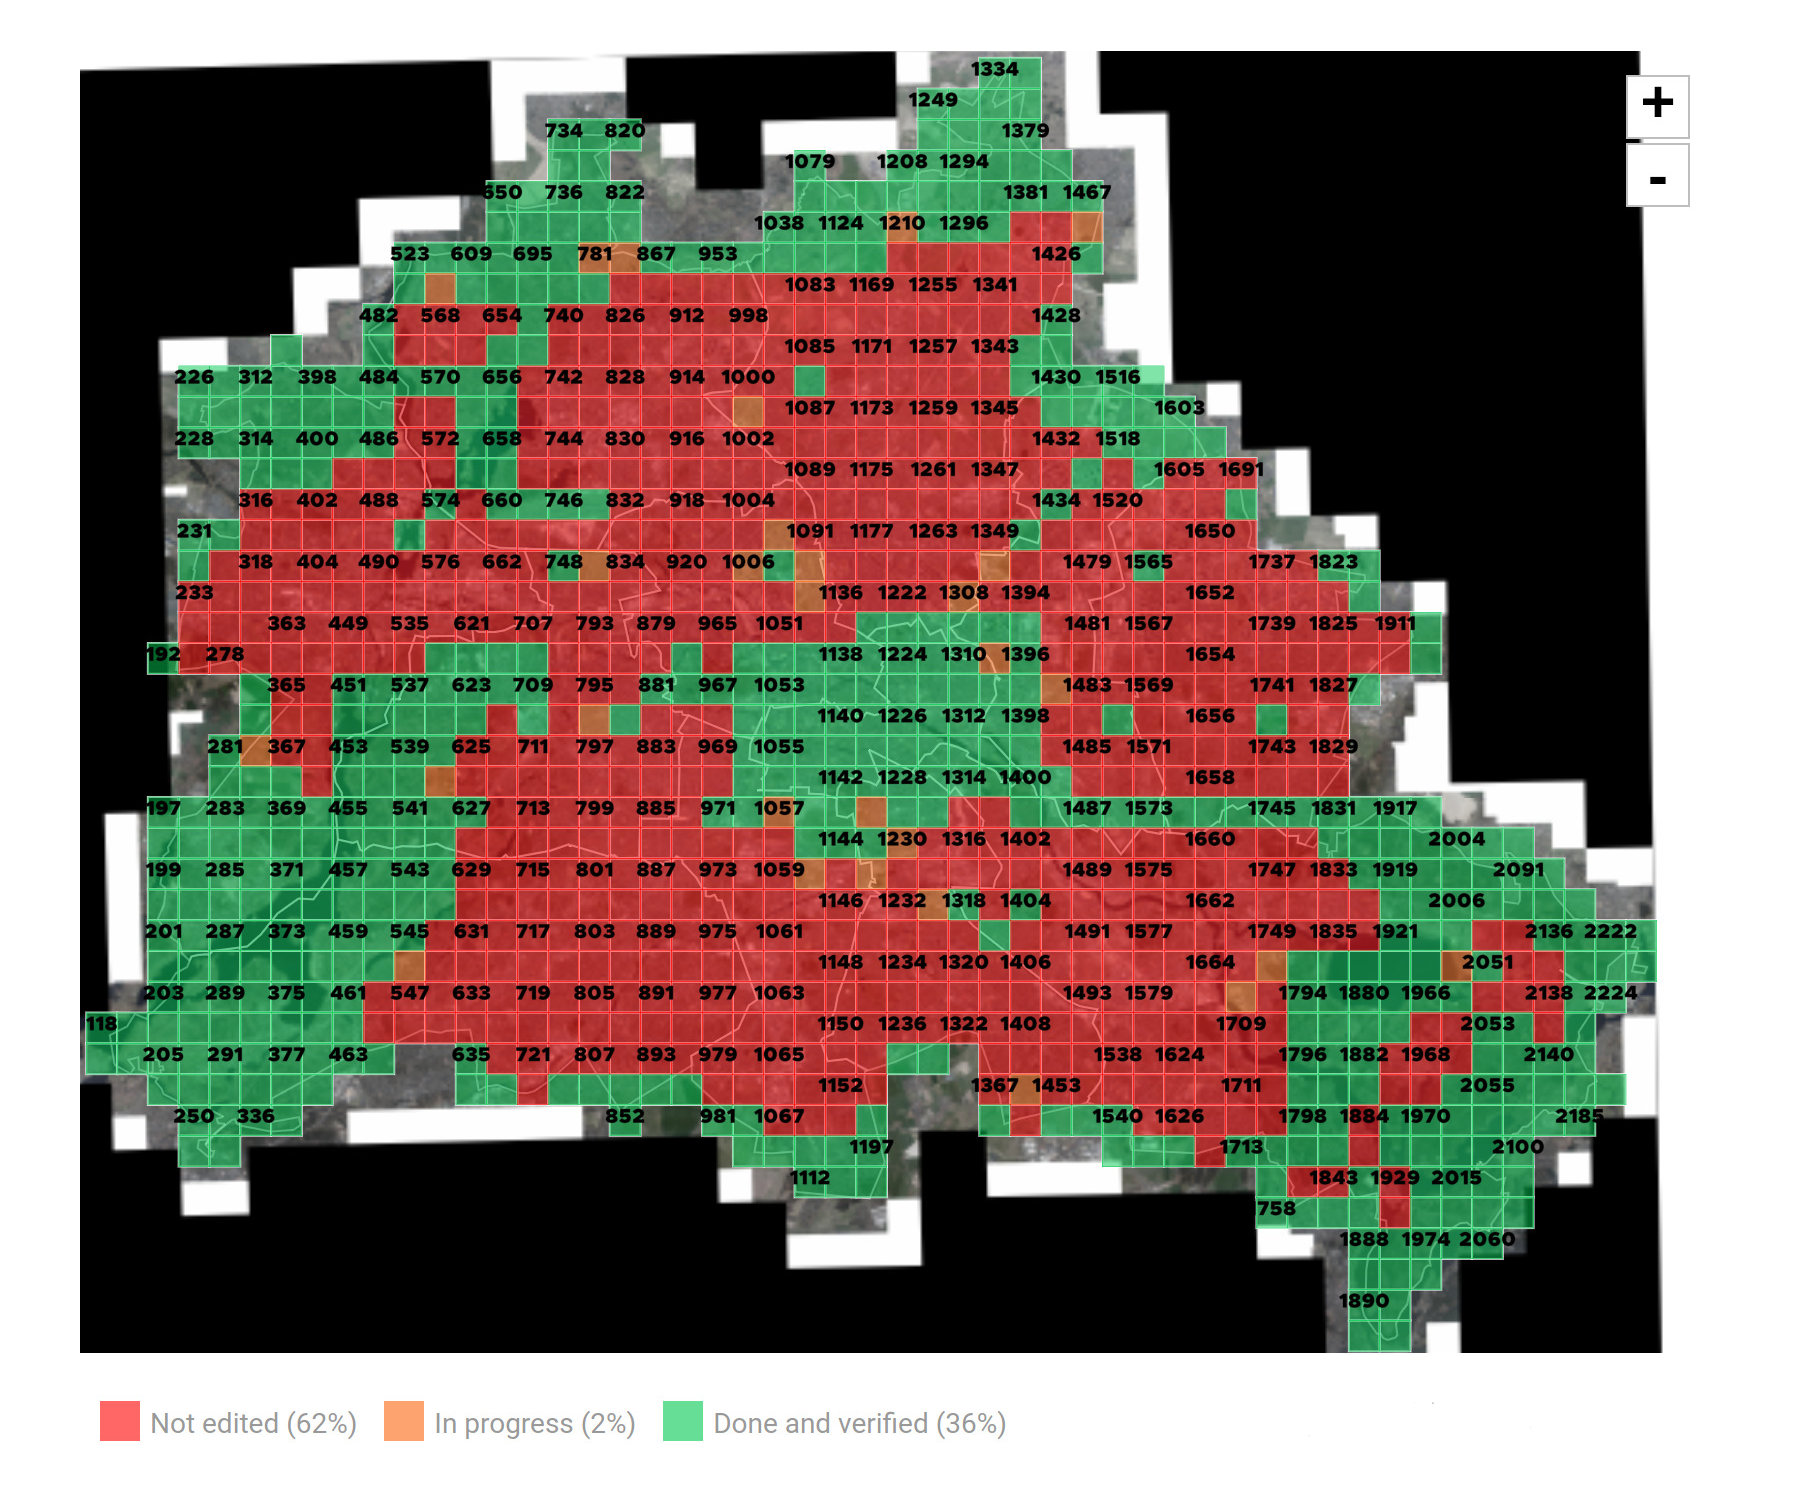
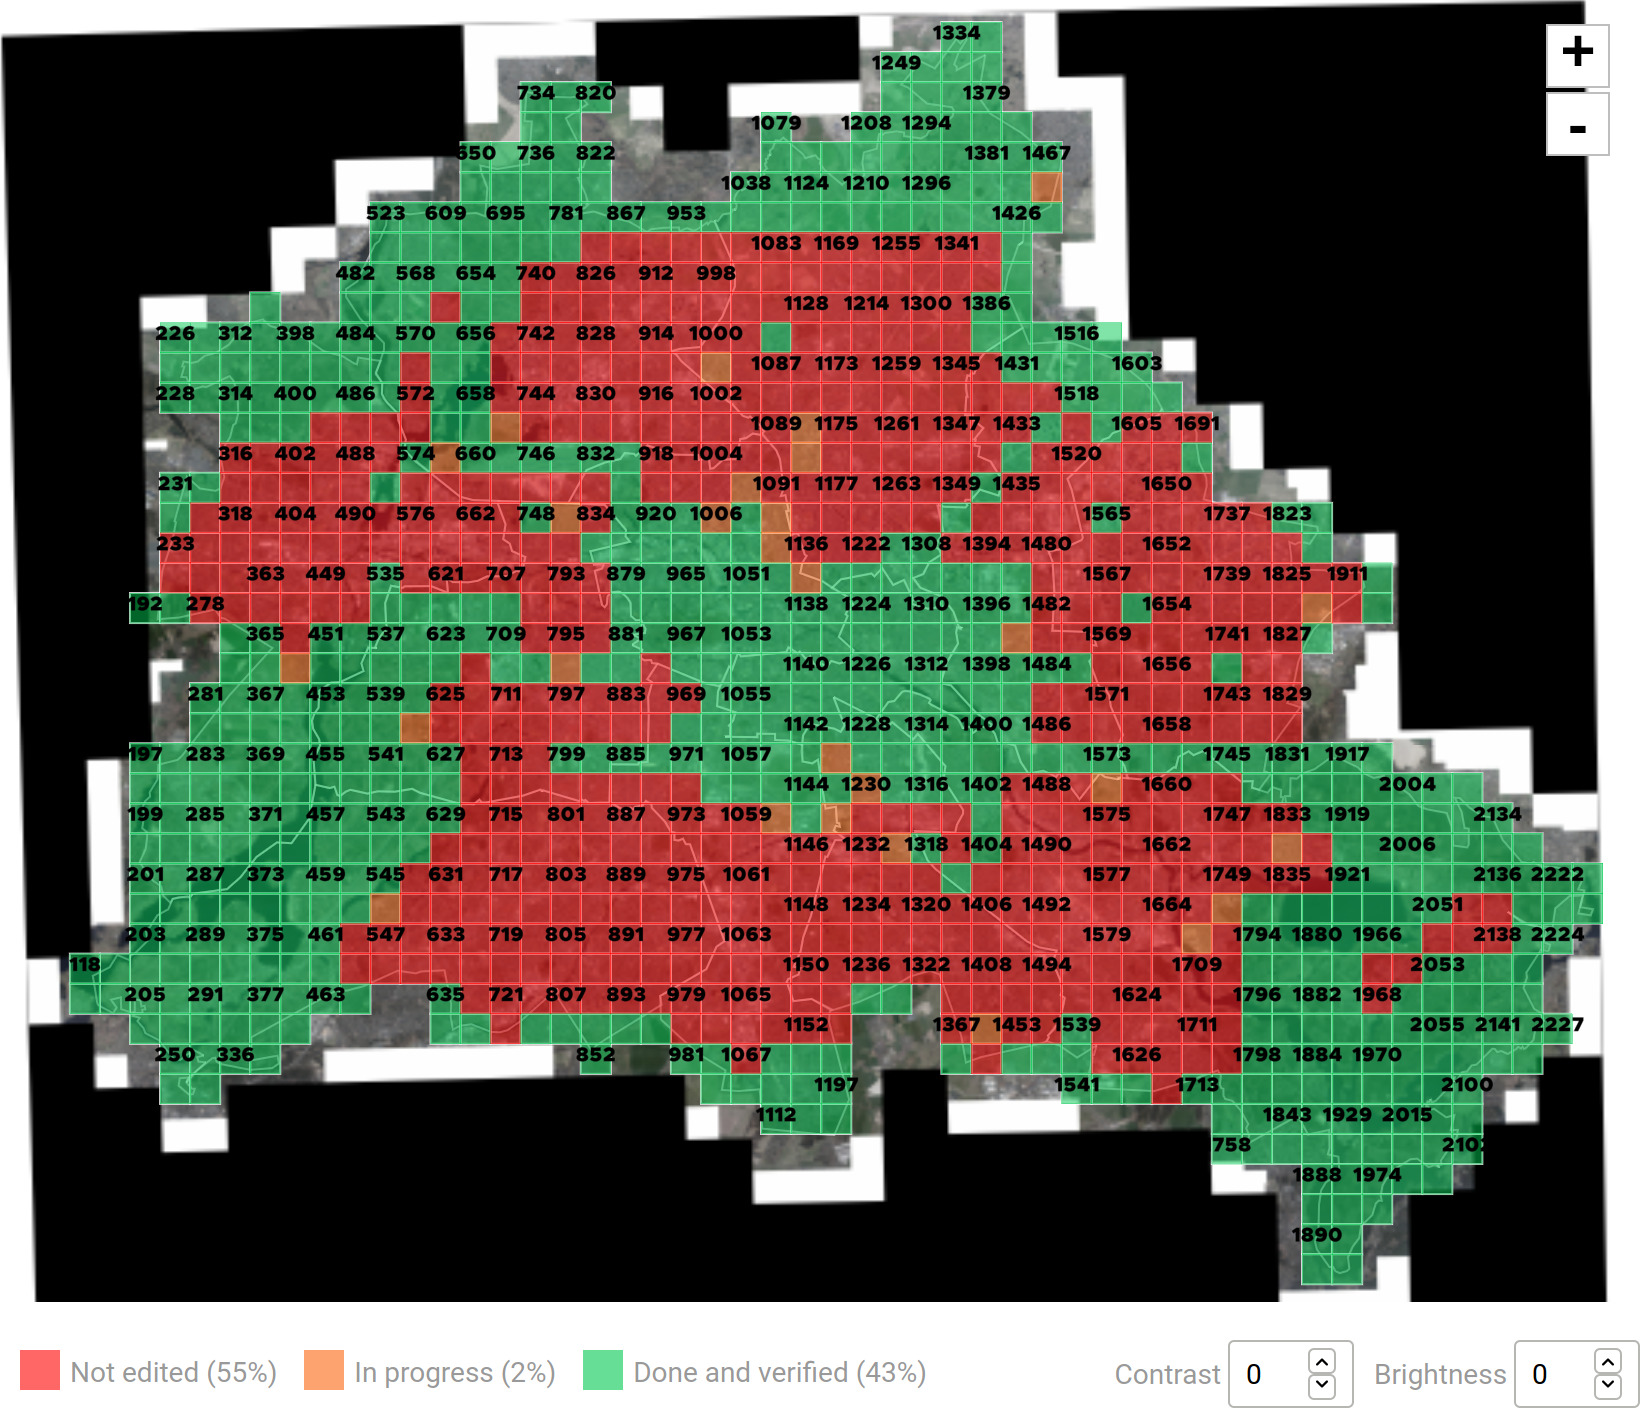
update status and text

diff --git a/README.md b/README.md
@@ -10,7 +10,7 @@ The data is subject to change.
 
 ## Status
 
-Large parts of the city center and the outskirts are complete. Here is a screenshot from the tagging tool taken on the 09.11.2020
+Large parts of the city center and the outskirts are complete. Here is a screen shot from the tagging tool taken on the 12.12.2020
 
 <p align="center">
   <img width="400"src="./status.jpg">
@@ -40,6 +40,7 @@ Example for a small car in notion:
 	"geometry": { "type": "Polygon", "coordinates": [ [ [ 13.373293088785752, 52.503429881998635 ], [ 13.373209513826753, 52.503429881998635 ], [ 13.373209513778393, 52.503480755240851 ], [ 13.373293088834115, 52.503480755240851 ], [ 13.373293088785752, 52.503429881998635 ] ] ] } 
 }
 ``` 
+You can currently download the data for the district of [Friedrichshain-Kreuzberg](./cars-friedrichshain-kreuzberg.geojson.zip). The folder _raw-data.zip_ contains all the data collected so far but it isn't parsed and merged yet. 
 
 ## Bias
 
